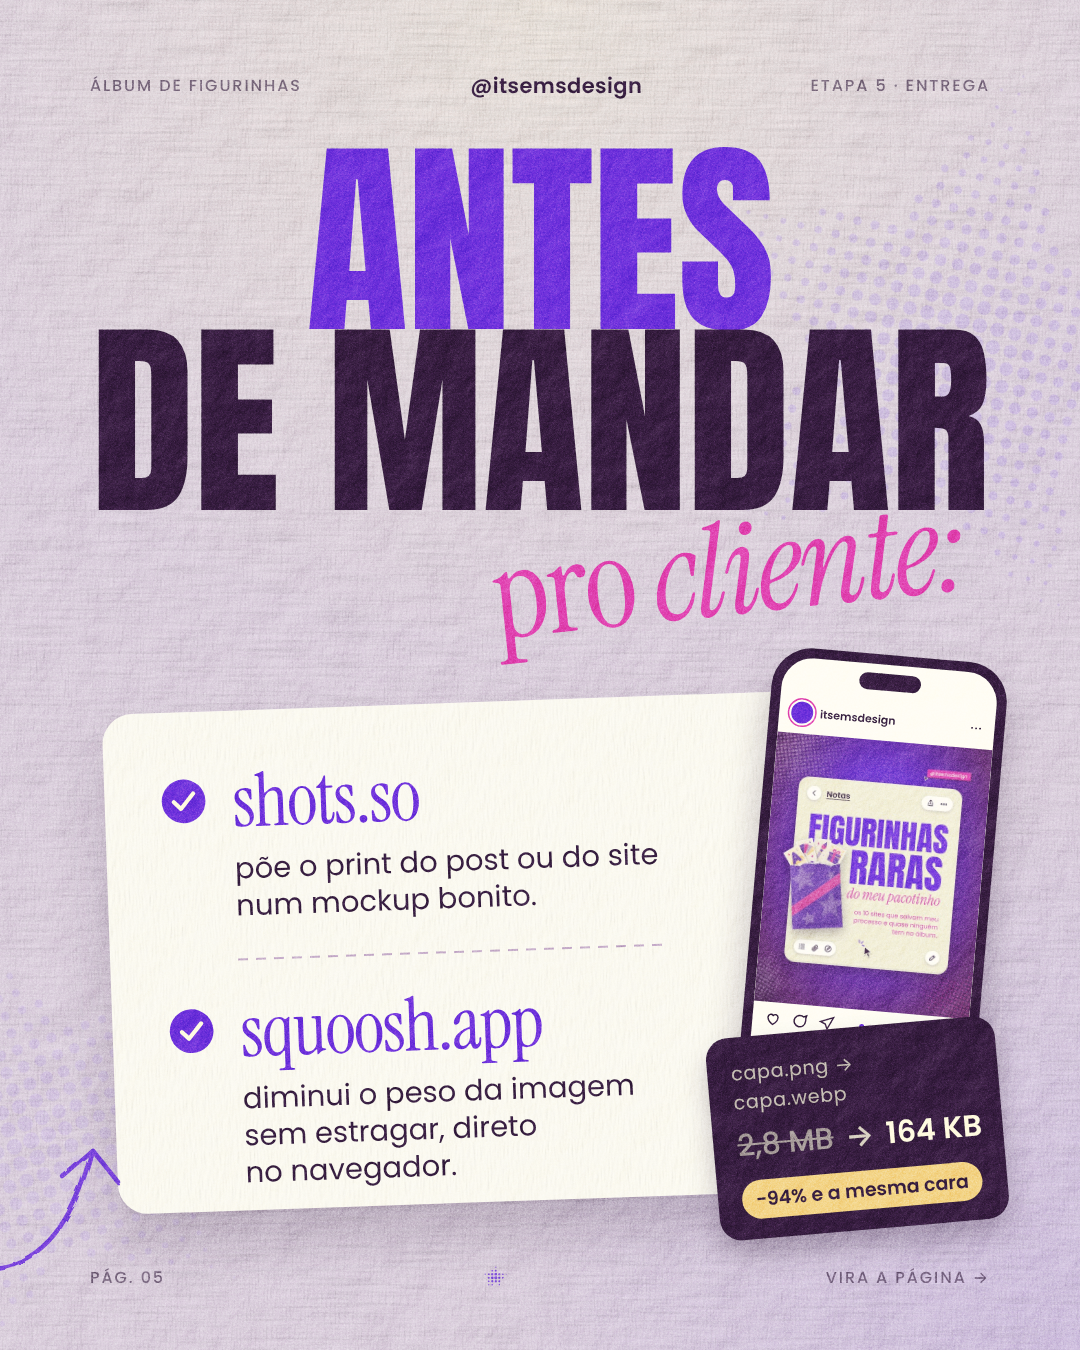
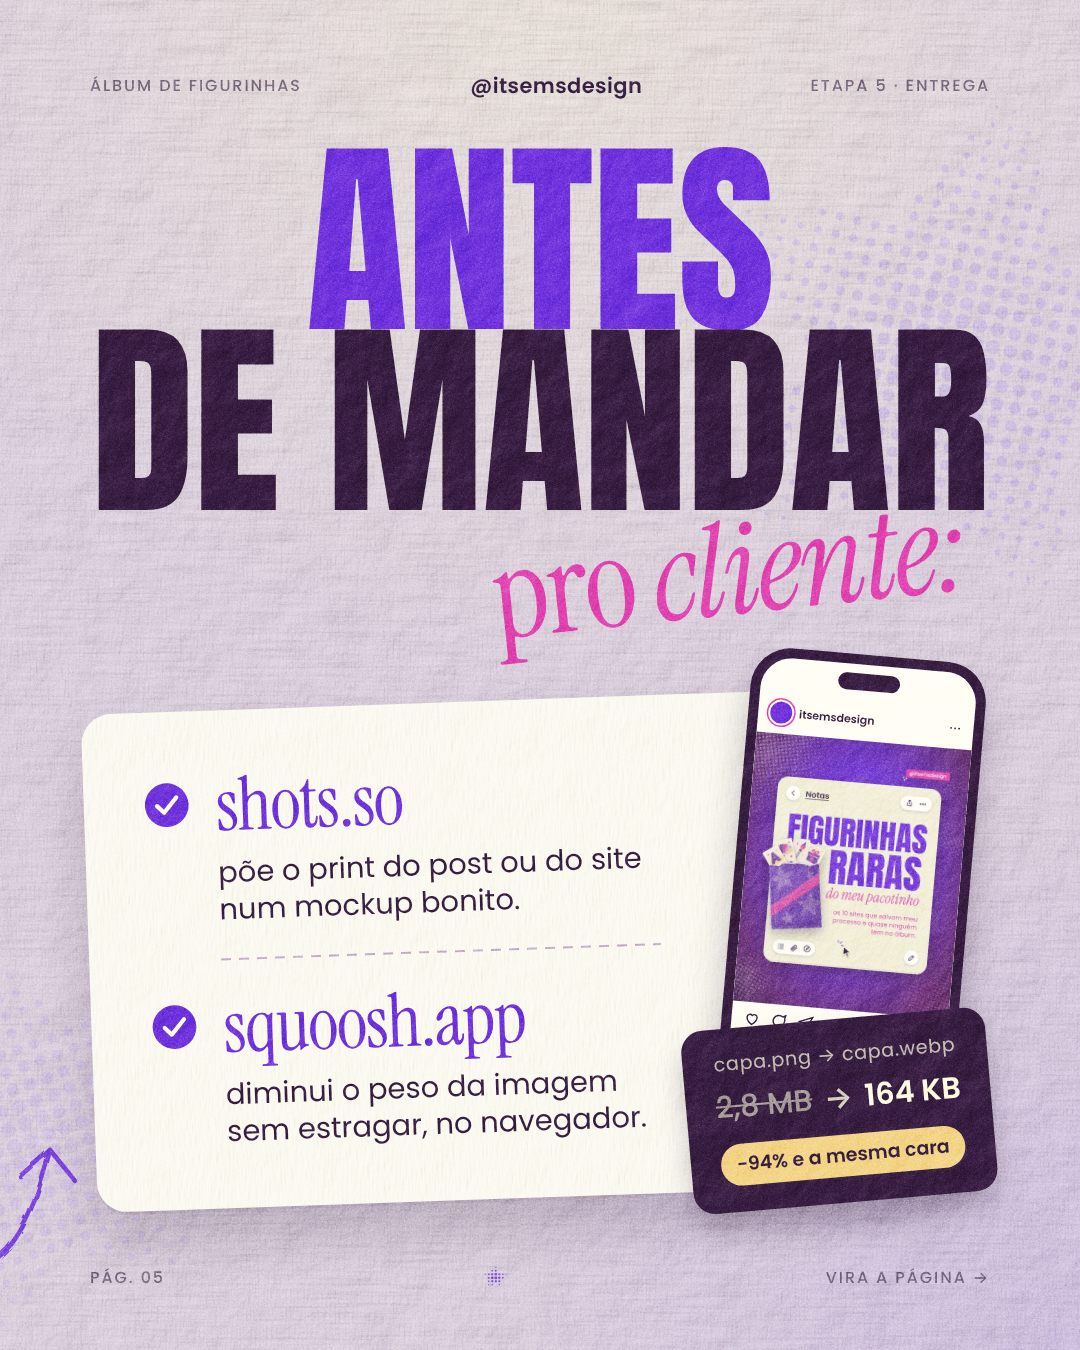
EMS figurinhas raras v4: página 6 centralizada (cartão, conjunto na página e etiqueta do arquivo)
Claude-Session: https://claude.ai/code/session_01CmCiKB9wFc4qQovptupnZT

Changed region(s): [[0.6111, 0.4667, 0.9472, 0.9333], [0.0, 0.5289, 0.6111, 0.9333]]

diff --git a/Emi/ems-album-figurinhas/projeto/carrossel.html b/Emi/ems-album-figurinhas/projeto/carrossel.html
@@ -248,7 +248,7 @@ const PINC = 'filter:brightness(.46) saturate(1.3) contrast(1.05)';
 (() => {
   const p = A.paginas[4], [s1, s2] = p.sites;
   const check = `<svg viewBox="0 0 40 40" style="flex:none;width:46px;height:46px;margin-top:12px"><circle cx="20" cy="20" r="19" fill="${css('violeta')}"/><path d="M11.5 20.5 l6 6 l11-13" fill="none" stroke="${css('ivory')}" stroke-width="3.6" stroke-linecap="round" stroke-linejoin="round"/></svg>`;
-  const item = (s) => `<div style="display:flex;gap:26px;align-items:flex-start">${check}<div style="width:430px">
+  const item = (s) => `<div style="display:flex;gap:26px;align-items:flex-start">${check}<div style="width:440px">
       <div style="font-family:var(--serif);font-size:74px;line-height:1;letter-spacing:-.02em;color:var(--violeta)">${s.nome}</div>
       <div style="font-family:var(--sans);font-size:29px;line-height:1.28;color:var(--tinta);margin-top:12px">${s.pra}</div></div></div>`;
   /* celular flat com a capa deste carrossel dentro (mockup) */
@@ -267,10 +267,10 @@ const PINC = 'filter:brightness(.46) saturate(1.3) contrast(1.05)';
         <div class="abs" style="left:12px;top:398px;width:110px;height:7px;border-radius:4px;background:rgba(42,20,51,.12)"></div>
       </div></div>`;
   /* etiqueta do arquivo antes e depois (imagem leve). Números reais: lamina-01.png 2,77 MB → WebP q75 164 KB (−94%) */
-  const arquivo = `<div class="abs" style="left:596px;top:338px;width:290px;padding:22px 24px 20px;border-radius:22px;background:var(--tinta);color:var(--ivory);font-family:var(--sans);transform:rotate(-3deg);box-shadow:0 16px 26px rgba(42,20,51,.28)">
+  const arquivo = `<div class="abs" style="left:592px;top:330px;display:flex;flex-direction:column;align-items:center;text-align:center;white-space:nowrap;padding:21px 30px 26px;border-radius:22px;background:var(--tinta);color:var(--ivory);font-family:var(--sans);transform:rotate(-3deg);box-shadow:0 16px 26px rgba(42,20,51,.28)">
       <div style="font-size:19px;letter-spacing:.04em;opacity:.7">capa.png → capa.webp</div>
       <div style="display:flex;align-items:baseline;gap:12px;margin-top:6px;font-weight:600;font-size:30px;white-space:nowrap"><s style="opacity:.55;font-weight:500;text-decoration-thickness:2px">2,8 MB</s><span style="opacity:.8">→</span>164 KB</div>
-      <div style="display:inline-block;margin-top:12px;padding:5px 14px;border-radius:999px;background:var(--manteiga);color:var(--tinta);font-weight:600;font-size:19px">−94% e a mesma cara</div></div>`;
+      <div style="display:inline-block;margin-top:14px;padding:6px 16px 7px;border-radius:999px;background:var(--manteiga);color:var(--tinta);font-weight:600;font-size:19px">−94% e a mesma cara</div></div>`;
   const rot = (txt) => `<span>${txt}</span>`;
   const linha = (y, a, b, c) => `<div class="abs" style="left:90px;right:90px;top:${y}px;display:flex;justify-content:space-between;align-items:center;font-family:var(--sans);font-weight:500;font-size:16px;letter-spacing:.12em;text-transform:uppercase;color:rgba(42,20,51,.62)">${rot(a)}${b}${rot(c)}</div>`;
   lamina(5, `
@@ -279,9 +279,9 @@ const PINC = 'filter:brightness(.46) saturate(1.3) contrast(1.05)';
     ${linha(70, 'álbum de figurinhas', '<b style="font-weight:600;letter-spacing:.02em;text-transform:none;font-size:21px;color:var(--tinta)">@itsemsdesign</b>', 'etapa 5 · entrega')}
     <div class="abs" id="tit6" style="left:0;width:1080px;top:150px;text-align:center;font-family:Anton, var(--sans);font-size:262px;line-height:.86;letter-spacing:-.005em;color:var(--tinta);white-space:nowrap" data-sem-cola><span style="color:var(--violeta)">ANTES</span> DE<br>MANDAR</div>
     <div class="abs" id="pro6" style="left:600px;top:470px;font-family:var(--serif);font-size:128px;line-height:1;letter-spacing:-.02em;color:var(--pink);transform:rotate(-6deg);white-space:nowrap">${p.pro}</div>
-    <div class="abs" id="cartao6" style="left:110px;top:700px;width:860px;height:500px;padding:54px 56px;border-radius:30px;background:#fffdf3;transform:rotate(-2deg);box-shadow:0 30px 50px rgba(42,20,51,.2), 0 3px 0 rgba(42,20,51,.06)">
+    <div class="abs" id="cartao6" style="left:110px;top:700px;width:860px;padding:58px 56px 58px 60px;border-radius:30px;background:#fffdf3;transform:rotate(-2deg);box-shadow:0 30px 50px rgba(42,20,51,.2), 0 3px 0 rgba(42,20,51,.06)">
       <div class="abs" style="inset:0;border-radius:30px;background-image:var(--tx-fibras);background-size:440px;mix-blend-mode:multiply;opacity:.22"></div>
-      <div style="position:relative">${item(s1)}<div style="height:2px;margin:34px 0 34px 72px;width:430px;background:repeating-linear-gradient(90deg,var(--lavanda) 0 10px,transparent 10px 18px)"></div>${item(s2)}</div>
+      <div style="position:relative">${item(s1)}<div style="height:2px;margin:30px 0 30px 72px;width:440px;background:repeating-linear-gradient(90deg,var(--lavanda) 0 10px,transparent 10px 18px)"></div>${item(s2)}</div>
       ${celular}${arquivo}
     </div>
     ${linha(1262, 'pág. 05', `<img src="${estrelaReticula(60, css('violeta'), 7)}" style="width:30px;opacity:.8">`, 'vira a página →')}
@@ -305,7 +305,7 @@ const PINC = 'filter:brightness(.46) saturate(1.3) contrast(1.05)';
   }
   /* 5|6: seta desenhada à mão saindo do fecho da 5 e entrando na 6; troca de cor no corte */
   if (N >= 6) {
-    const x1 = 4 * W + 880, x2 = 5 * W + 92;
+    const x1 = 4 * W + 880, x2 = 5 * W + 50;
     const seta = (cor) => `<svg class="abs" style="left:0;top:0;width:${6 * W}px;height:${H}px;overflow:visible" viewBox="0 0 ${6 * W} ${H}">
       <defs><filter id="mao${cor}" x="-5%" y="-5%" width="110%" height="110%"><feTurbulence type="fractalNoise" baseFrequency=".035" numOctaves="2" seed="7"/><feDisplacementMap in="SourceGraphic" scale="5"/></filter></defs>
       <g fill="none" stroke="${cor}" stroke-width="4.5" stroke-linecap="round" stroke-linejoin="round" filter="url(#mao${cor})">
@@ -359,6 +359,14 @@ document.fonts.ready.then(() => {
     const l5 = t6.closest('.lamina').getBoundingClientRect(), r = t6.getBoundingClientRect(), pr = document.getElementById('pro6');
     pr.style.left = (r.right - l5.left - pr.getBoundingClientRect().width - 6) + 'px';
     pr.style.top = (r.bottom - l5.top - 4) + 'px';
+  }
+  /* página 6: centraliza na página o conjunto cartão + celular + etiqueta (medido já com as rotações) */
+  const c6 = document.getElementById('cartao6');
+  if (c6) {
+    const l6 = c6.closest('.lamina').getBoundingClientRect();
+    const rs = [c6, ...c6.children].map((e) => e.getBoundingClientRect());
+    const L = Math.min(...rs.map((r) => r.left)) - l6.left, R = Math.max(...rs.map((r) => r.right)) - l6.left;
+    c6.style.left = (parseFloat(c6.style.left) + (1080 - L - R) / 2) + 'px';
   }
   const lam = document.getElementById('l1');
   if (a && lam) {

diff --git a/Emi/ems-album-figurinhas/projeto/textos.js b/Emi/ems-album-figurinhas/projeto/textos.js
@@ -34,7 +34,7 @@ window.ALBUM = {
     { etapa: 'pág. 05 · entrega', titulo: 'ANTES DE<br>MANDAR', pro: 'pro <i>cliente:</i>', objeto: 'celular e arquivo (flat)',
       sites: [
         { nome: 'shots.so', pra: 'põe o print do post ou do site num mockup bonito.' },
-        { nome: 'squoosh.app', pra: 'diminui o peso da imagem sem estragar, direto no navegador.' },
+        { nome: 'squoosh.app', pra: 'diminui o peso da imagem sem estragar, no navegador.' },
       ] },
   ],
   chamada: {
